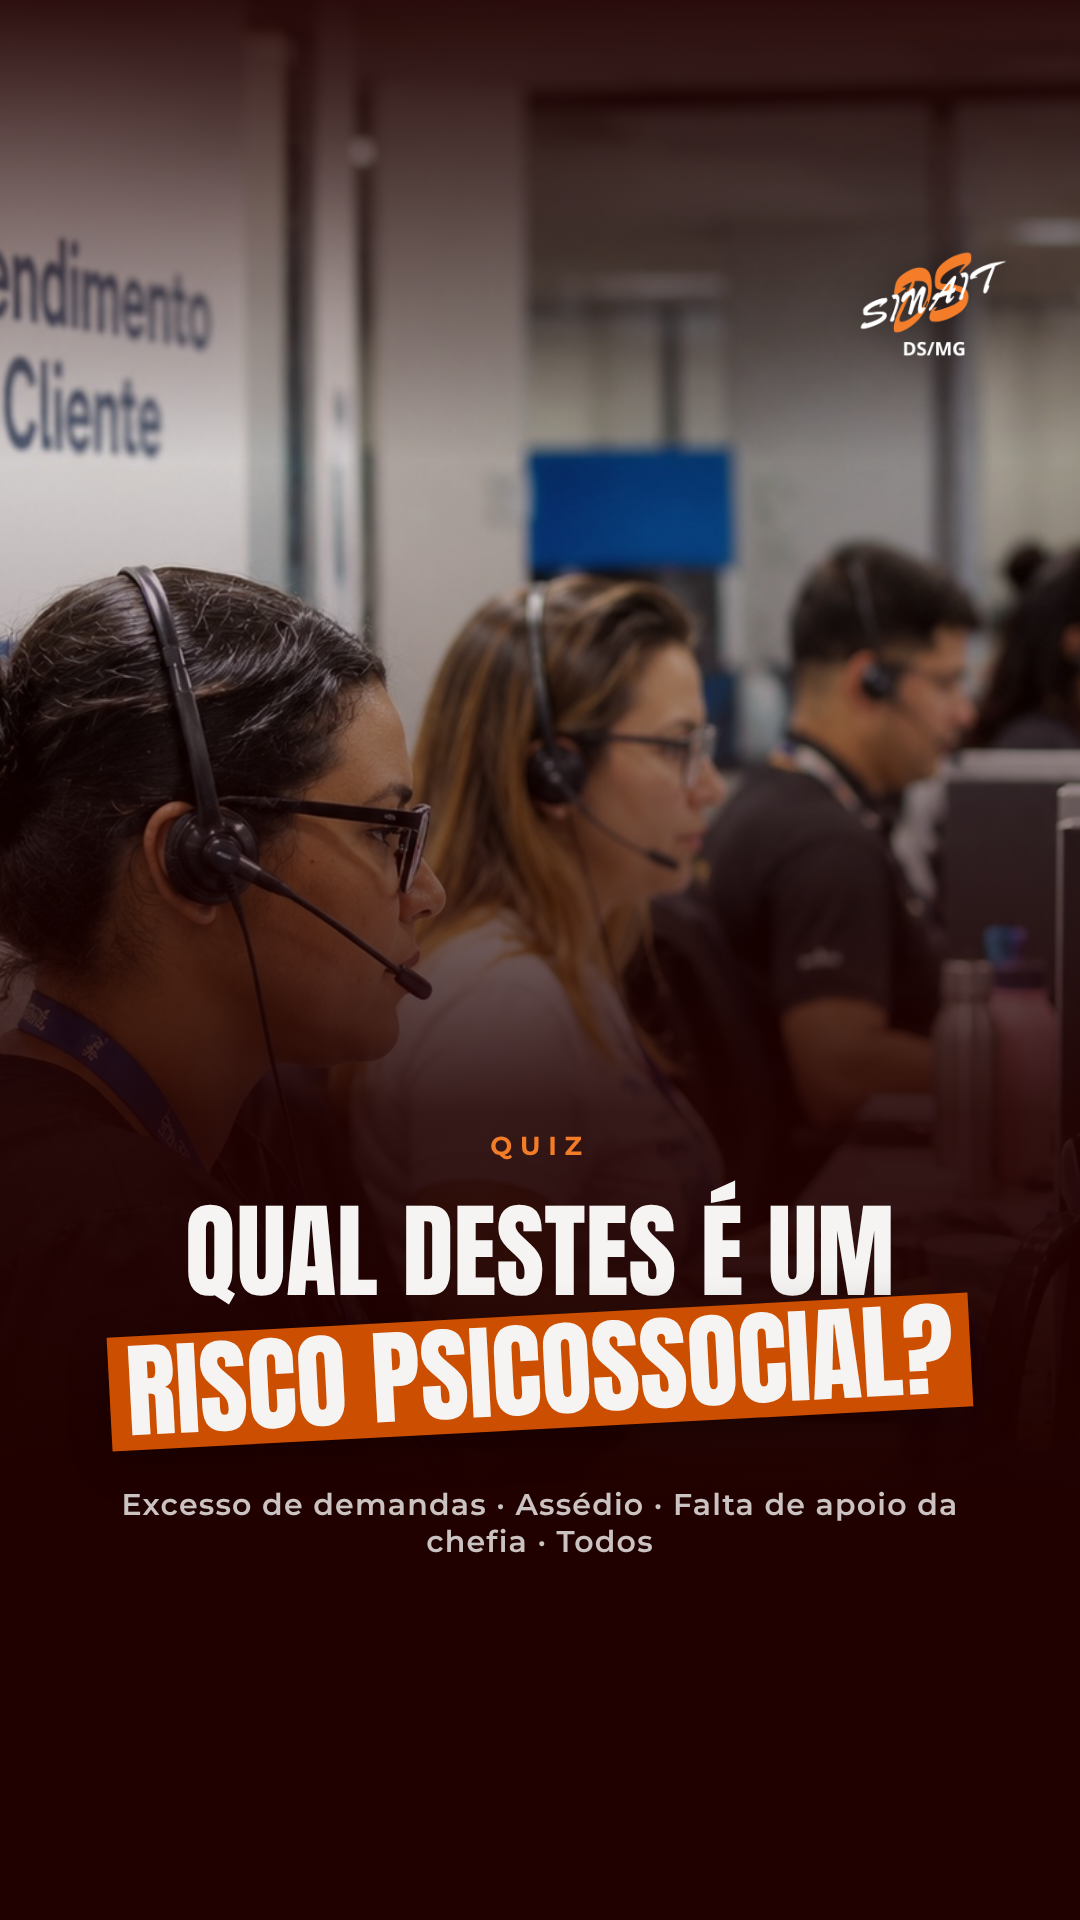
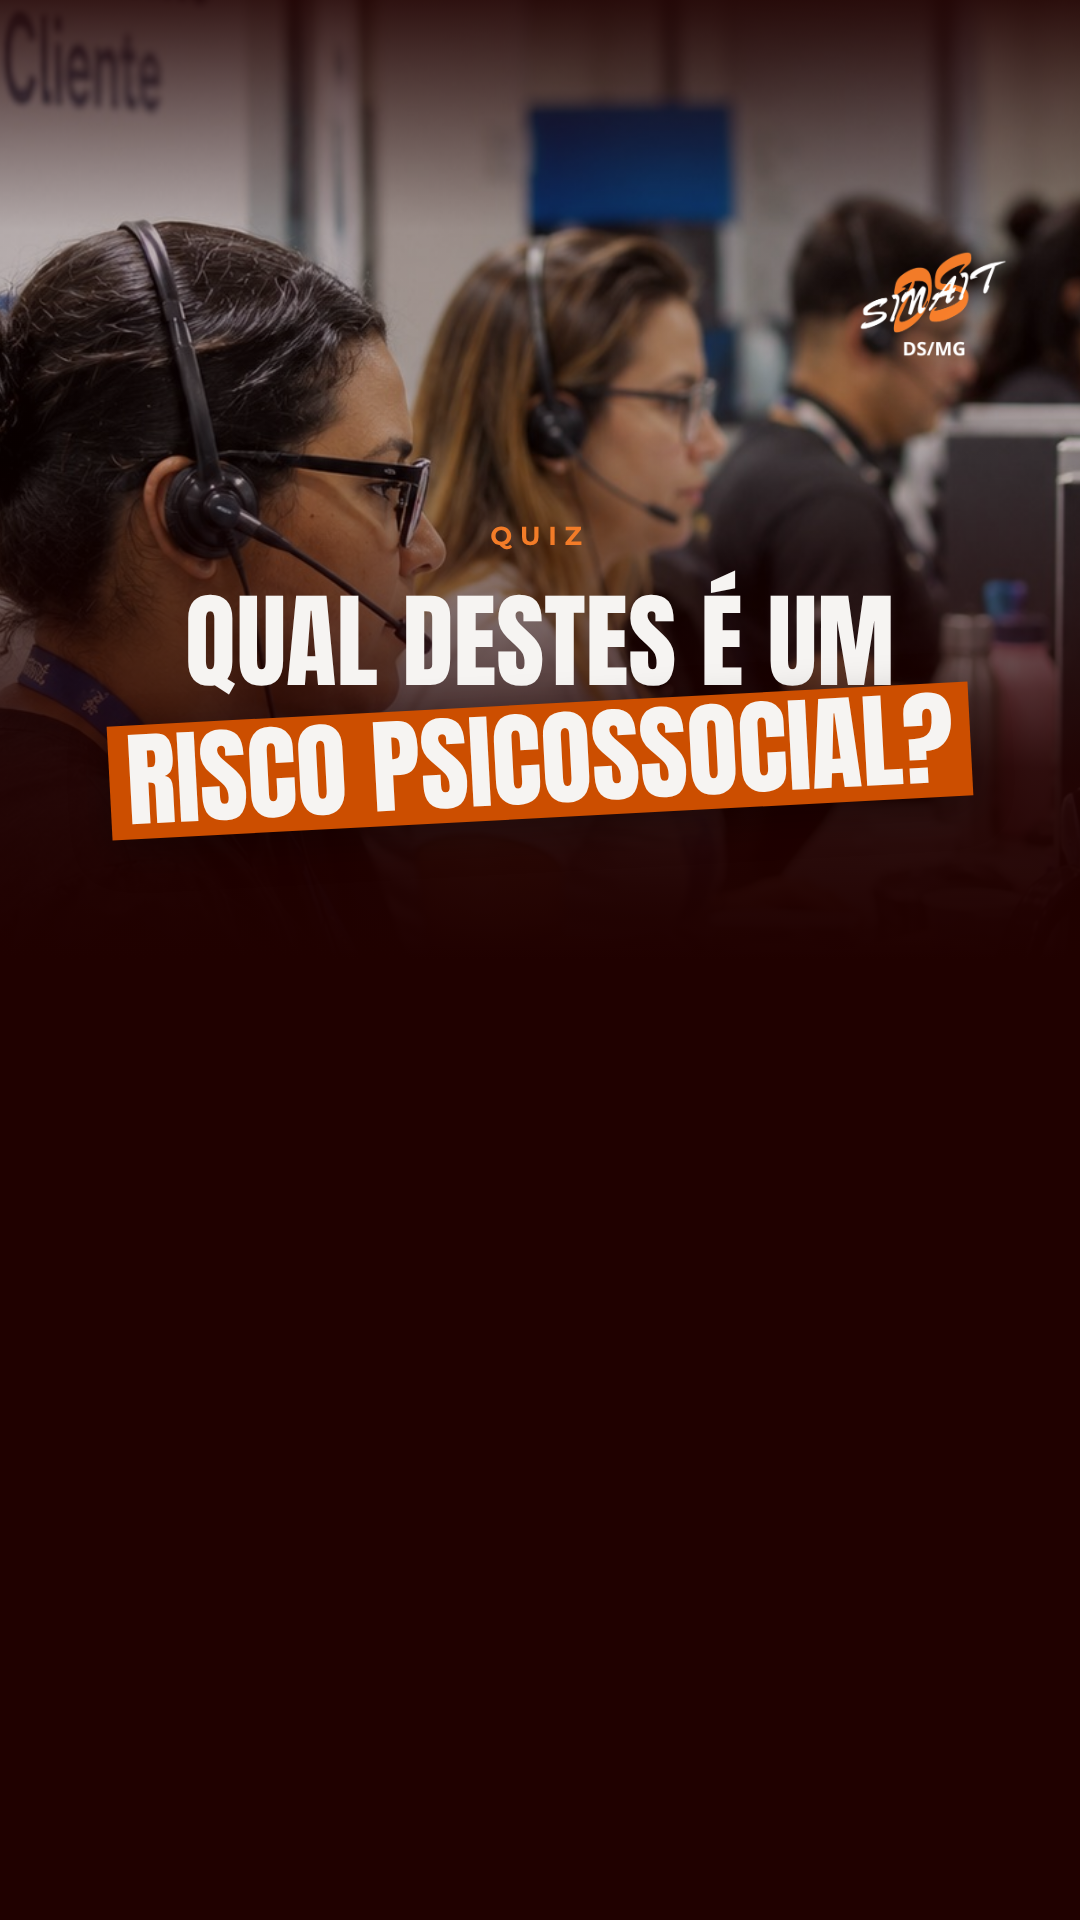
Libera espaço para o sticker de quiz no story 1 do 10/11
Claude-Session: https://claude.ai/code/session_011HvaTJFJJFHDm1z7jLavn3

diff --git a/posts-novembro-2026/stories.html b/posts-novembro-2026/stories.html
@@ -109,6 +109,10 @@ p { margin: 0; }
 .s-foto .body { justify-content: flex-end; }
 .s-foto.sticker .body { flex: 1; justify-content: flex-end; padding-top: 0; }
 .s-foto.sticker .foot { margin-top: 0; }
+/* alto: texto no meio, metade de baixo livre para um sticker grande (quiz de 4 opções) */
+.s-foto.alto::before { background: linear-gradient(180deg, rgba(32,1,0,.9) 0%, rgba(32,1,0,.3) 12%, rgba(32,1,0,.25) 24%, rgba(32,1,0,.92) 40%, var(--preto) 50%); }
+.s-foto.sticker.alto .body { flex: none; justify-content: flex-start; padding-top: 520px; }
+.s-foto.sticker.alto .foot { margin-top: auto; }
 .pill-feed { display: inline-flex; align-items: center; gap: 14px; background: var(--laranja); color: var(--creme); font-weight: 800; font-size: 30px; letter-spacing: .16em; text-transform: uppercase; padding: 16px 32px; border-radius: 999px; }
 .s-laranja .pill-feed { background: var(--preto); }
 .dica { font-size: 30px; font-weight: 600; letter-spacing: .04em; opacity: .8; }
@@ -151,10 +155,10 @@ const STORIES = [
       <p class="lead">E a Auditoria-Fiscal do Trabalho pode autuar quem não cumpre.</p>` },
   ]},
   { id: '10-11', nome: 'Riscos psicossociais: o que são e como aparecem', s: [
-    { bg: 'foto', foto: '10-11', fotoStyle: 'transform:translateY(-4%)', sticker: true, html: `
+    { bg: 'foto', foto: '10-11', fotoStyle: 'transform:translateY(-22%)', sticker: true, alto: true, html: `
       <span class="eyebrow">Quiz</span>
       <h2>Qual destes é um<br><span class="faixa">risco psicossocial?</span></h2>
-      <p class="dica">Excesso de demandas · Assédio · Falta de apoio da chefia · Todos</p>` },
+` },
     { bg: 'creme', foot: ['<span class="src">*MTE, Guia de Informações sobre os Fatores de Riscos Psicossociais Relacionados ao Trabalho (2025).</span>', ''], html: `
       <h1><span class="faixa">Todos.</span></h1>
       <p class="lead">O Guia do MTE lista <span class="lar">13 fatores</span> ligados à organização e à gestão do trabalho.*</p>
@@ -247,7 +251,7 @@ const STORIES = [
 
 function storyHTML(st, s, i) {
   const claro = /branco|creme/.test(s.bg);
-  const cls = s.bg.split(' ').map(b => 's-' + b).join(' ') + (s.sticker ? ' sticker' : '');
+  const cls = s.bg.split(' ').map(b => 's-' + b).join(' ') + (s.sticker ? ' sticker' : '') + (s.alto ? ' alto' : '');
   const foot = s.foot || ['', ''];
   return `<div class="wrap"><section class="slide ${cls}" data-out="${st.id}/story-${i + 1}.png">
     ${s.foto ? `<img class="foto" src="fotos/${s.foto}.jpg" alt="" style="${s.fotoStyle || ''}">` : ''}
